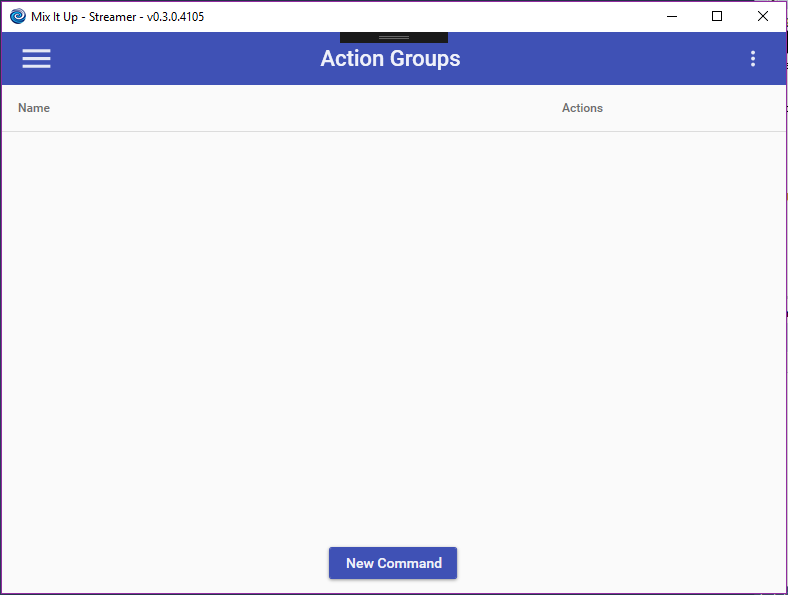
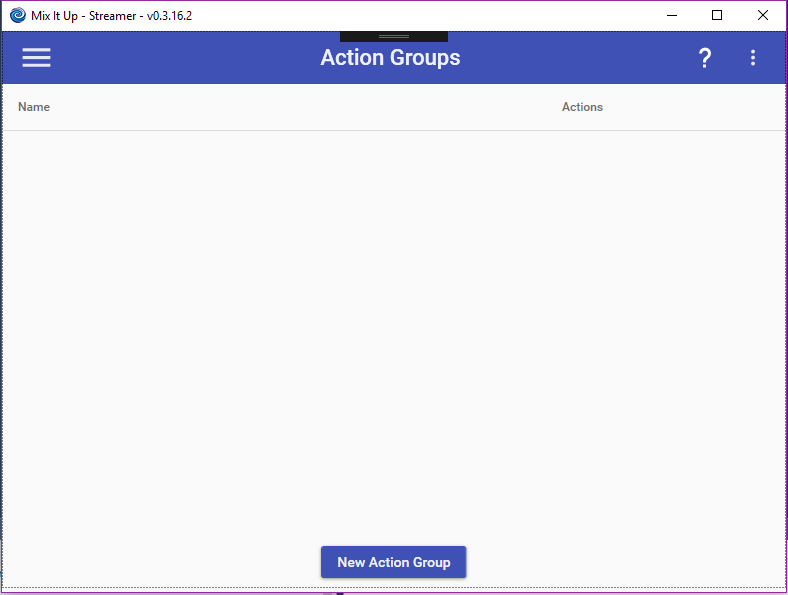
- Fixing Action Groups typo and updating Wiki image

diff --git a/MixItUp.WPF/Controls/MainControls/ActionGroupControl.xaml b/MixItUp.WPF/Controls/MainControls/ActionGroupControl.xaml
@@ -37,7 +37,7 @@
         </DataGrid>
 
         <Grid Grid.Row="2" HorizontalAlignment="Center">
-            <Button x:Name="AddCommandButton" Grid.Column="0" Click="AddCommandButton_Click">New Command</Button>
+            <Button x:Name="AddCommandButton" Grid.Column="0" Click="AddCommandButton_Click">New Action Group</Button>
         </Grid>
 
     </Grid>
